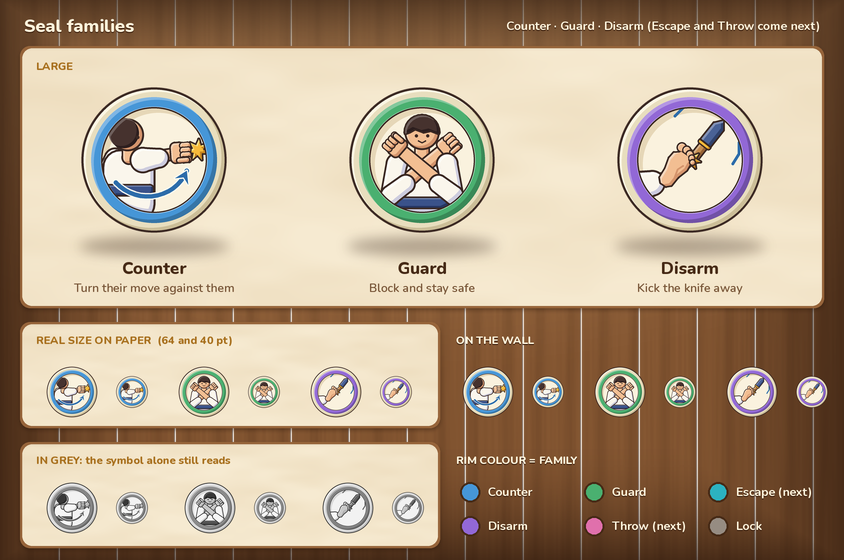
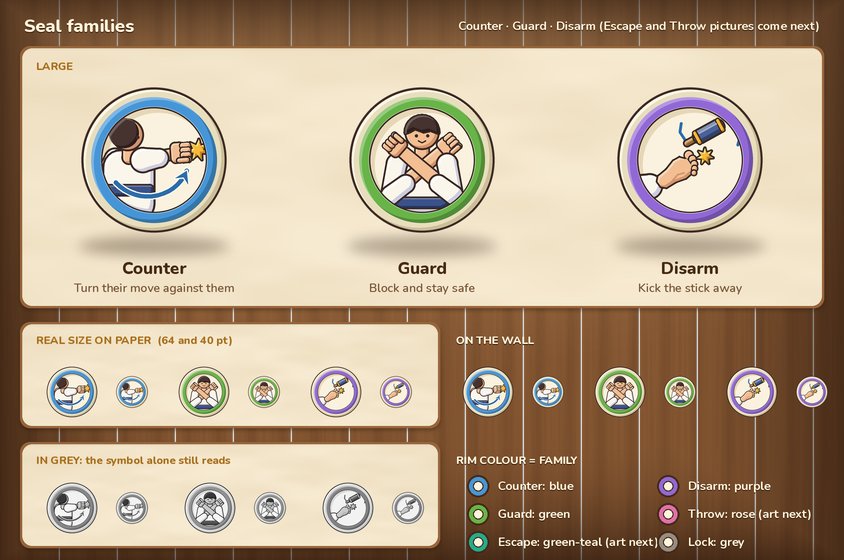
art: PB-07 v2 per manager: green-teal Escape rim, leaf-green Guard, padded training stick for Disarm; docs and previews

diff --git a/incoming-art/icons-slots/source/seal_icons.py b/incoming-art/icons-slots/source/seal_icons.py
@@ -8,8 +8,8 @@ from toon import *
 
 RIMS = {  # rim colours: family colour cue. No red. Orange belongs to ENTER THE TOWER only.
     'counter': (70, 150, 215),   # blue (the colour every Seal rim has today)
-    'guard': (74, 176, 112),     # green
-    'escape': (44, 178, 192),    # teal
+    'guard': (104, 180, 72),     # leaf green (moved toward yellow-green so Escape can sit next to it)
+    'escape': (36, 172, 140),    # green-teal (Manager answer: clearly apart from Counter's blue)
     'disarm': (146, 104, 214),   # purple
     'throw': (224, 112, 172),    # rose pink
     'lock': (150, 140, 130),     # stone grey: not open yet
@@ -156,28 +156,30 @@ def foot(a, ax, ay, ang, clip=None, s=1.0):
     a.shape(poly(L([(33, -10), (40, -6), (40, 5), (34, 10)])), SKIN, None, None, ow=0, clip=clip)
 
 
-# ------------------------------------------------------------------ DISARM: kick the weapon
-def knife(a, cx, cy, ang, clip=None, k=1.0):
-    """a rubber training knife (blue pad blade, wood handle). Blade points along ang."""
+# ------------------------------------------------------------------ DISARM: kick the training stick away
+def stick(a, cx, cy, ang, clip=None, k=1.0):
+    """a padded training stick (foam-wrapped, like a dojo escrima stick): wood grip at the tail, a thick blue foam pad
+    over the rest with a gold tape band at each end. Rounded ends, nothing sharp. Pad end points along ang."""
     def L(pts):
         return rot([(x * k, y * k) for x, y in pts], cx, cy, ang)
-    a.shape(poly(L(rrect_pts(-15, 0, 26, 11, 4))), WOOD, WOOD_S, lighten(WOOD, .35), ow=2.6, band=3, clip=clip)
-    a.shape(poly(L(rrect_pts(-1, 0, 5, 18, 2))), GOLD, GOLD_S, None, ow=2.2, band=2, clip=clip)
-    blade = [(2, -8), (30, -8), (40, 0), (30, 8), (2, 8)]
-    a.shape(poly(L(blade)), PADB, PADB_S, lighten(PADB, .35), ow=2.8, band=3.5, clip=clip)
+    a.shape(poly(L(rrect_pts(-26, 0, 28, 10, 5))), WOOD, WOOD_S, lighten(WOOD, .35), ow=2.6, band=3, clip=clip)   # grip
+    a.shape(poly(L(rrect_pts(14, 0, 64, 25, 12))), PADB, PADB_S, lighten(PADB, .35), ow=3.0, band=4.5, clip=clip)   # foam pad
+    for bx in (-12, 40):
+        a.shape(poly(L(rrect_pts(bx, 0, 6, 27, 2.5))), GOLD, GOLD_S, None, ow=2.0, band=2, clip=clip)              # tape bands
+    a.line(L([(-4, -6), (34, -6)]), lighten(PADB, .5), 2.6, clip=clip)                                           # soft sheen
 
 
 def disarm(rim=RIMS['disarm']):
     a = medallion(rim)
     c = face_clip()
-    # a rubber training knife tumbling away, kicked out of play
-    a.line([(104, 58), (118, 44), (138, 40)], BLUE_S, 4.5, clip=c)
-    a.line([(196, 134), (206, 118), (206, 100)], BLUE_S, 4.5, clip=c)
-    knife(a, 152, 102, -.9, clip=c, k=1.15)
-    burst(a, 130, 128, 7, 15, 7, .2, clip=c)
-    limb(a, (66, 164), (88, 158), 10, 9, clip=c)
-    a.shape(cap((20, 176), (68, 165), 26, 18), GI, GI_S, (255, 255, 250), ow=3.2, band=5, clip=c)
-    foot(a, 92, 158, -math.pi / 2 + .62, clip=c, s=1.2)
+    # a padded training stick tumbling away, kicked out of play
+    a.line([(120, 96), (112, 84), (114, 70)], BLUE_S, 4.5, clip=c)
+    a.line([(204, 104), (208, 90), (200, 76)], BLUE_S, 4.5, clip=c)
+    stick(a, 148, 88, -.5, clip=c, k=.8)
+    limb(a, (62, 168), (84, 162), 10, 9, clip=c)
+    a.shape(cap((18, 182), (64, 170), 26, 18), GI, GI_S, (255, 255, 250), ow=3.2, band=5, clip=c)
+    foot(a, 88, 160, -math.pi / 2 + .95, clip=c, s=1.2)
+    burst(a, 152, 122, 6, 13, 7, .2, clip=c)
     return a.result()
 
 

diff --git a/incoming-art/icons-slots/source/build_seal_families.py b/incoming-art/icons-slots/source/build_seal_families.py
@@ -1,5 +1,5 @@
 """PB-07 samples (Seal family medallions, Lock, slot glyphs, Jumping Spins). Three images, all drawn by script:
-  python3 incoming-art/seal-families/source/build_seal_families.py
+  python3 incoming-art/icons-slots/source/build_seal_families.py
 Needs only Pillow + numpy, plus incoming-art/tools/board_ui_kit.py (the warm Board look, PR #412).
 Icons are drawn in seal_icons.py (a small toon kit in toon.py). No text lives inside the art pieces.
 All words in the mocks are placeholders."""
@@ -76,12 +76,12 @@ def sample_families():
     W, H = 844, 560
     sc = Screen(W, H)
     label(sc, 24, 26, 'Seal families', 18, CREAM, 'lm', 'ExtraBold', SHADOW_TXT)
-    label(sc, W - 24, 26, 'Counter \u00b7 Guard \u00b7 Disarm (Escape and Throw come next)', 12, CREAM, 'rm', 'Bold', SHADOW_TXT)
+    label(sc, W - 24, 26, 'Counter \u00b7 Guard \u00b7 Disarm (Escape and Throw pictures come next)', 12, CREAM, 'rm', 'Bold', SHADOW_TXT)
     card(sc, 20, 46, W - 40, 262)
     label(sc, 36, 66, 'LARGE', 11, mat.GOLD_D, 'lm', 'ExtraBold')
     fam = [('counter', 'Counter', 'Turn their move against them'),
            ('guard', 'Guard', 'Block and stay safe'),
-           ('disarm', 'Disarm', 'Kick the knife away')]
+           ('disarm', 'Disarm', 'Kick the stick away')]
     cw = (W - 40) / 3
     for i, (k, nm, kid) in enumerate(fam):
         cx = 20 + cw * (i + .5)
@@ -117,14 +117,15 @@ def sample_families():
             x += s + 8
         x += 18
     label(sc, 456, 460, 'RIM COLOUR = FAMILY', 11, CREAM, 'lm', 'ExtraBold', SHADOW_TXT)
-    rims = [('counter', 'blue'), ('guard', 'green'), ('escape', 'teal'), ('disarm', 'purple'), ('throw', 'rose'), ('lock', 'grey')]
+    rims = [('counter', 'blue'), ('guard', 'green'), ('escape', 'green-teal'), ('disarm', 'purple'), ('throw', 'rose'), ('lock', 'grey')]
     for i, (k, nm) in enumerate(rims):
         col = si.RIMS[k]
-        cx = 470 + (i % 3) * 124
-        cy = 492 + (i // 3) * 34
+        cx = 478 + (i // 3) * 190
+        cy = 486 + (i % 3) * 28
         d = ImageDraw.Draw(sc.img)
-        d.ellipse([(cx - 10) * K, (cy - 10) * K, (cx + 10) * K, (cy + 10) * K], fill=(*col, 255), outline=(*INK, 255), width=2 * K)
-        label(sc, cx + 18, cy, k.capitalize() + (' (next)' if k in ('escape', 'throw') else ''), 12, CREAM, 'lm', 'Bold', SHADOW_TXT)
+        d.ellipse([(cx - 11) * K, (cy - 11) * K, (cx + 11) * K, (cy + 11) * K], fill=(*col, 255), outline=(*INK, 255), width=2 * K)
+        d.ellipse([(cx - 5) * K, (cy - 5) * K, (cx + 5) * K, (cy + 5) * K], fill=(*CREAM, 255), outline=(*INK, 255), width=1 * K)
+        label(sc, cx + 20, cy, '%s: %s%s' % (k.capitalize(), nm, ' (art next)' if k in ('escape', 'throw') else ''), 12, CREAM, 'lm', 'Bold', SHADOW_TXT)
     sc.save(os.path.join(PV, '01-family-medallions'))
 
 

diff --git a/incoming-art/icons-slots/README.md b/incoming-art/icons-slots/README.md
@@ -1,6 +1,10 @@
 # Seal families (PB-07 samples)
 
-**Status: samples only.** Three preview sheets for Jay to OK before the full set is drawn. No game files are touched.
+**Status: samples only, manager answers applied (v2).** Three preview sheets for Jay to OK before the full set is drawn. No game files are touched. No sprites exported yet: Jay approves first.
+
+The folder is `incoming-art/icons-slots/`, the path the PB-07 spec names (it was moved from `incoming-art/seal-families/` with `git mv`).
+
+**What changed in v2 (manager answers):** each family keeps its own rim colour, and Escape is now green-teal so it sits clearly apart from Counter's blue. The Disarm picture shows a padded training stick (foam pad, tape bands, wood grip) instead of a knife.
 
 PB-07 (in `drafts/planning/R-PROGRESSION-BETA.md`) replaces G2B-03. It asks for 5 Seal family medallions (Counter, Guard, Escape, Disarm, Throw), a Lock silhouette, the Strike and Kata slot glyphs, an empty-slot piece and the Jumping Spins icon.
 
@@ -8,7 +12,7 @@ PB-07 (in `drafts/planning/R-PROGRESSION-BETA.md`) replaces G2B-03. It asks for 
 
 | # | File | Shows |
 |---|---|---|
-| a | `preview/01-family-medallions.png` (+ `@2x`) | Counter, Guard and Disarm. Large, 64 and 40 pt on paper, on the Board wall, in grey, plus the rim-colour key |
+| a | `preview/01-family-medallions.png` (+ `@2x`) | Counter, Guard and Disarm. Large, 64 and 40 pt on paper, on the Board wall, in grey, plus the rim-colour key (Escape and Throw shown as colour only) |
 | b | `preview/02-lock-and-slot-glyphs.png` (+ `@2x`) | Lock, Strike glyph, Kata glyph, empty Seal slot. Large, in a mock slot row, 48 and 32 pt, in grey |
 | c | `preview/03-jumping-spins.png` (+ `@2x`) | Jumping Spins. Large, next to the plain Strike glyph, 64, 48 and 32 pt on paper, grey and wall |
 
@@ -16,16 +20,16 @@ The `@2x` files are the true pixels. The 1x files are the same sheets at phone p
 
 ## How the icons are built
 - Round medallion: pale outer ring, coloured rim, cream face, dark outline, one simple symbol. This is the same family as the existing seal icons.
-- The rim colour is the family cue: Counter blue, Guard green, Escape teal, Disarm purple, Throw rose, Lock grey. Strike is gold, Kata brown. There is no red and no orange. Orange stays for ENTER THE TOWER.
+- The rim colour is the family cue: Counter blue, Guard leaf green, Escape green-teal, Disarm purple, Throw rose, Lock grey. Strike is gold, Kata brown. Hues (degrees): Counter 207, Escape 164, Guard 100, Disarm 263, Throw 328. There is no red and no orange. Orange stays for ENTER THE TOWER.
 - Every glow has a real source (the burst is the hit). Nothing is drawn above a head.
 - Limbs read as limbs (from Jay's notes): sleeves flare at the cuff, a wrist shows, and fists have finger bands and a thumb. Fists point the way the strike goes (knuckles forward). Feet are drawn sole-on, with a heel pad, ball and five toes.
-- Real technique: Counter = spinning back fist. Guard = cross block (forearms crossed, fists up). Disarm = a front kick that knocks a rubber training knife away. Strike = front kick on a kick pad. Jumping Spins = a jumping spin kick.
+- Real technique: Counter = spinning back fist. Guard = cross block (forearms crossed, fists up). Disarm = a front kick that knocks a padded training stick away (foam pad, no blade). Strike = front kick on a kick pad. Jumping Spins = a jumping spin kick.
 - Sprite spec when exported: 128 x 128 transparent PNG (plus @2x), with the 8 px margin kept clear. `--export` writes them to `sprites/`. Not run yet, so no sprites are committed.
 - The look of the previews (warm wood wall, cream paper cards, INK text, Nunito) is the Board look from PR #412.
 
 ## Rebuild
 ```
-python3 incoming-art/seal-families/source/build_seal_families.py
+python3 incoming-art/icons-slots/source/build_seal_families.py
 ```
 Needs Pillow and numpy only. **It also needs PR #412 merged**, because it imports `incoming-art/tools/board_ui_kit.py` (the Board look). This PR does not copy that file, so it cannot clash with #412.
 

diff --git a/incoming-art/icons-slots/DELIVERY_NOTE.md b/incoming-art/icons-slots/DELIVERY_NOTE.md
@@ -1,16 +1,16 @@
-# Delivery Note: Seal families (PB-07 samples)
+# Delivery Note: Seal families (PB-07 samples, v2)
 
 - **ITEM:** PB-07 slot art, samples only: family medallions (Counter, Guard, Disarm shown), Lock, Strike and Kata glyphs, empty slot, Jumping Spins.
-- **WHAT:** 3 preview sheets (large and real size, paper, wall and grey) in `preview/`, plus the build scripts. No sprites or game files yet. Escape and Throw are not drawn yet.
-- **WHY:** Jay needs to OK the look before the full set. Limbs now read clearly, fists point the right way, and the look matches the new warm Board.
+- **WHAT:** 3 preview sheets (large and real size, paper, wall and grey) in `preview/`, plus the build scripts. No sprites or game files yet (no export until Jay approves). Escape and Throw pictures are not drawn yet; their rim colours are shown in the key on sheet 1.
+  Manager answers applied in v2:
+  1. Each family keeps its own rim colour. Escape moved from teal to **green-teal** (hue 186 to 164 degrees) so it is clearly apart from Counter's blue (207). To keep Escape apart from Guard too, Guard moved from green (142) to a leaf green (100).
+  2. Folder moved to the spec's `incoming-art/icons-slots/` with `git mv`.
+  3. Disarm: the knife is now a **padded training stick** (foam pad, gold tape bands, wood grip, rounded ends). No blade shape anywhere.
+  4. Kept as they were: the Counter back fist, the Strike and Kata glyphs, the Jumping Spins ripples, the Lock and empty-slot look.
+- **WHY:** The manager OK'd the family look with these changes. A padded stick is safe for ages 6+ and still reads as "a weapon kicked away".
 - **DECIDE:**
-  1. Rim colour per family (blue, green, teal, purple, rose, grey) versus the all-blue seals we have today. Counter blue and Escape teal are close.
-  2. Folder: Jay said `incoming-art/seal-families/`. The spec says `incoming-art/icons-slots/`. Keep Jay's name?
-  3. Disarm shows a rubber training knife (blue pad blade). Fine for ages 6+, or use a plain stick or rope instead?
-  4. Counter shows only the spinning back fist. OK as the family face, or pick another Counter technique?
-  5. Strike glyph (sole-on kick on a kick pad) and Kata glyph (tatami with footprints). OK?
-  6. Jumping Spins: gold rim like Strike, blue ripples and spin ring. Keep the ripples (they mean "hits enemies close by")?
-  7. Lock and empty-slot look (stone-grey padlock, dashed socket with a plus).
-  8. After OK: export the 128 px sprites (and `static.json`), then Escape and Throw. Throw needs a full-figure technique (outside reap), so it takes longest.
-  9. The builder needs #412 merged (it imports the Board kit). OK to wait?
+  1. Guard's rim moved to leaf green (not asked for). It was needed to keep Escape and Guard apart. OK, or keep the old green and nudge Escape bluer?
+  2. Text in the mock now says "Kick the stick away". The game text in `drafts/content/abilities/seal-families-text.json` still says "Kick the Weapon" (fine). Any other words that say "knife"?
+  3. The builder needs #412 merged (it imports the Board kit). OK to wait?
+  4. After OK: export the 128 px sprites (and `static.json`), then draw Escape and Throw. Throw needs a full-figure technique (outside reap), so it takes longest.
 - **NEXT:** On OK, draw Escape and Throw, export the 128 px sprites, and open the full PB-07 PR.
